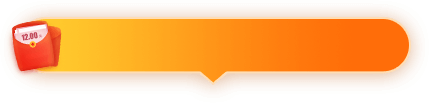
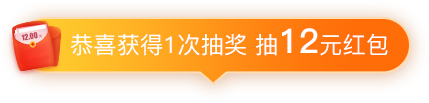
update footer newbie bubble

Changed region(s): [[0.1515, 0.2621, 0.9091, 0.5534]]

diff --git a/public/clientapp/css/default_app.css b/public/clientapp/css/default_app.css
@@ -35,10 +35,10 @@ dt a.on h2, dt a:active h2 {
 }
 
 .newBie-footer {
-    height: 0.9rem;
+    height: 1.2rem;
     position: absolute;
     /*top: -2rem;*/
-    left: 1.87rem;
+    left: 1.25rem;
     width: auto !important;
     animation: newbie 1.3s ease-in-out 0s infinite alternate;
   -webkit-animation: newbie 1.3s ease-in-out 0s infinite alternate;
@@ -47,9 +47,9 @@ dt a.on h2, dt a:active h2 {
 
 @keyframes newbie {
   from {
-    top: 85.2%;
+    top: 82.8%;
   }
   to {
-    top: 84.2%;
+    top: 83.8%;
   }
 }

diff --git a/resources/views/staradmin/client/recharge.blade.php b/resources/views/staradmin/client/recharge.blade.php
@@ -102,7 +102,14 @@
 </form>
 @endsection
 
-@section('footer-javascript')      
+@section('footer-javascript')    
+<!-- insufficient point modal -->
+<div class="modal fade col-md-12" id="modal-find-seller" tabindex="-1">
+  <div class="modal-dialog modal-lg">
+    <div class="find-seller">正在匹配卖家。。。</div>          
+  </div>
+</div>
+
       @parent
       <script type="text/javascript">
         var vCoin = 50;
@@ -120,7 +127,10 @@
             });
 
             $('.sendBox').on('click',function () {
-              getBuyer(vCoin);
+              $('#modal-find-seller').modal();
+              // setTimeout(function(){
+              //   getBuyer(vCoin);
+              // }, 3000);
             });
             
         });
